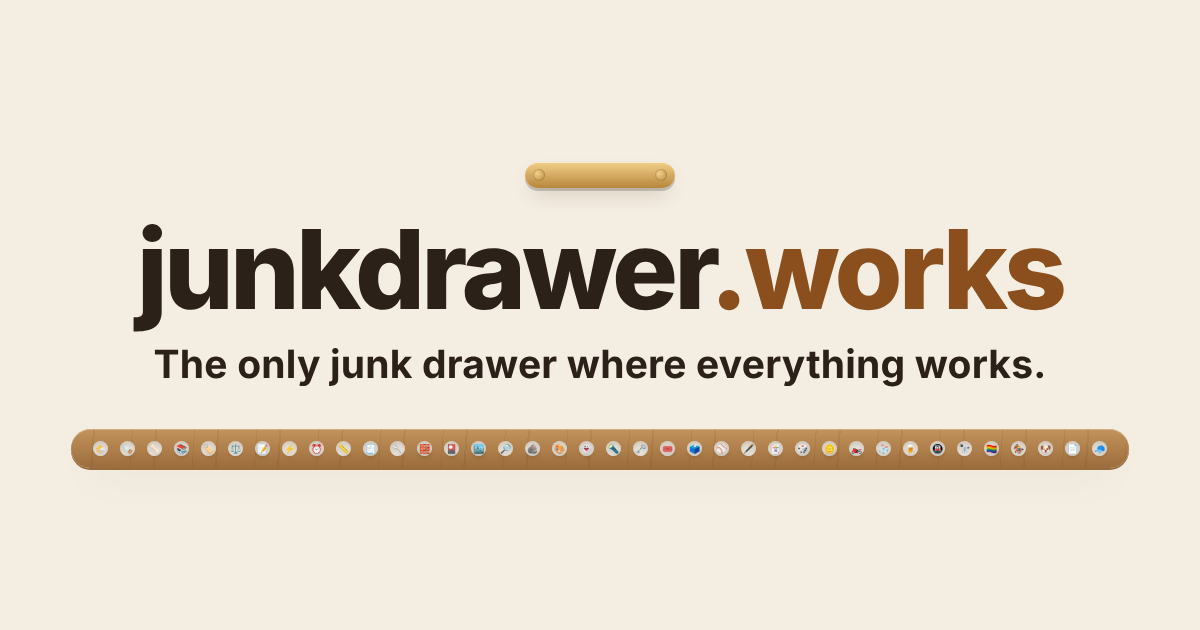
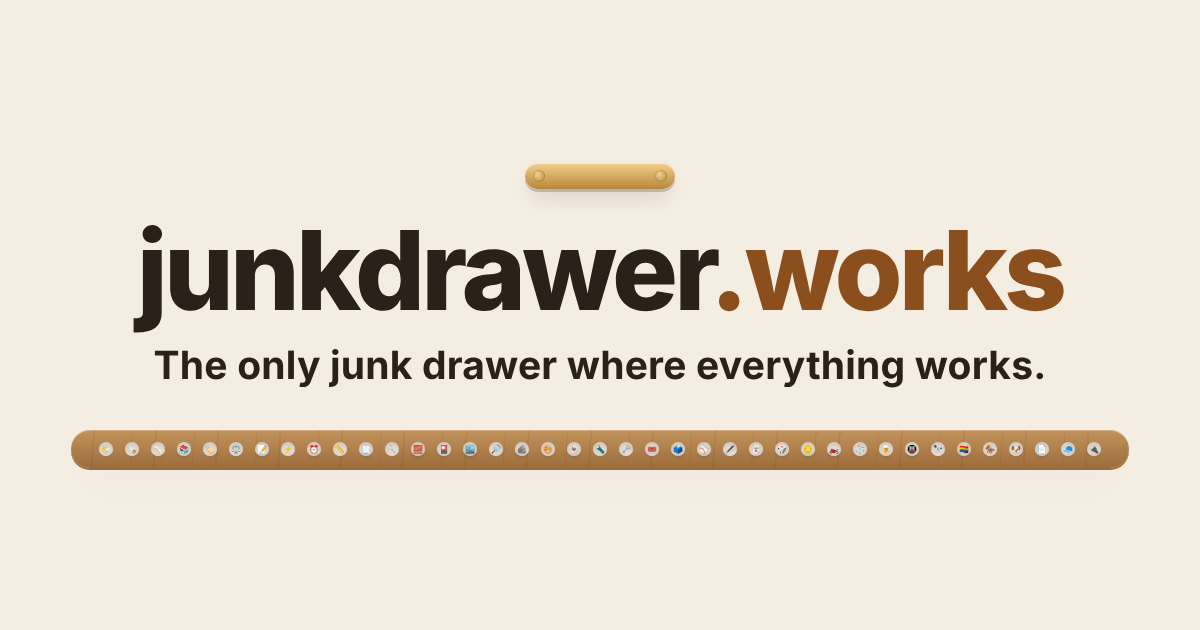
Add Rows and Rails to the Explore tray
Claude-Session: https://claude.ai/code/session_01SckFGAPcADL9XcembAw1rG

diff --git a/index.html b/index.html
@@ -494,6 +494,13 @@
         <p>Every pitch in big-league baseball, from the four-seamer to the eephus. See how each one is held and how it spins, then throw it from behind the plate and watch it break.</p>
         <span class="go" aria-hidden="true">Open →</span>
       </a>
+      <a class="slot" href="/rows-and-rails/">
+        <span class="obj" aria-hidden="true">🔌</span>
+        <span class="label">New</span>
+        <h3>Rows and Rails</h3>
+        <p>How a breadboard is wired inside. Tap holes to see which ones are joined, look at the metal clips under the plastic, and light an LED one part at a time.</p>
+        <span class="go" aria-hidden="true">Open →</span>
+      </a>
       </div>
     </section>
 
